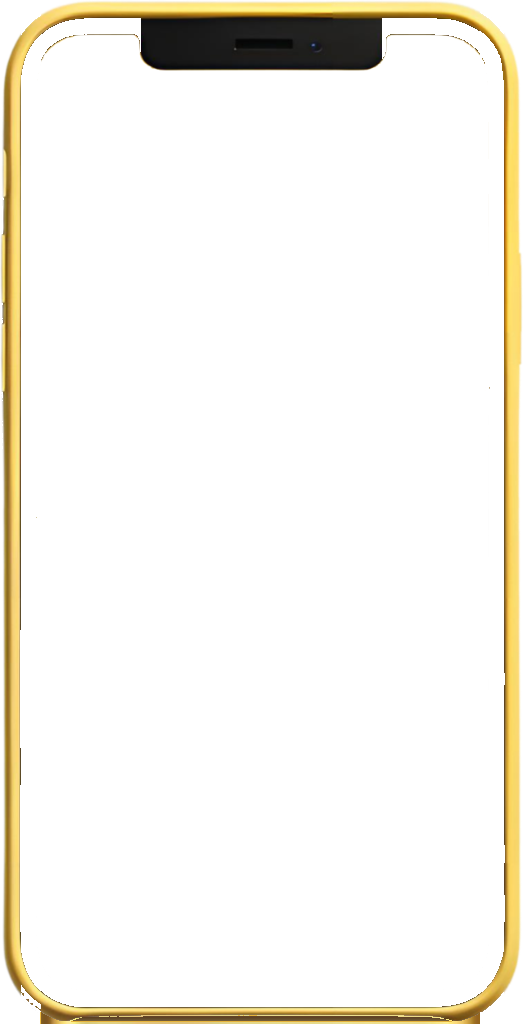
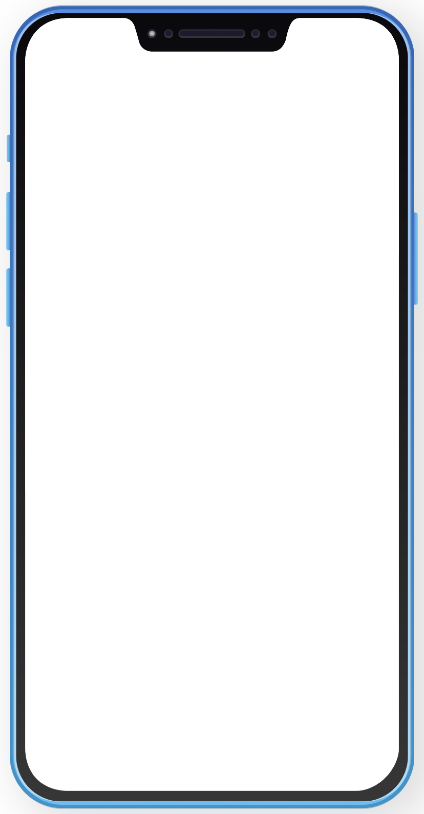
Swap the About phone frame for the cyan mockup.
Replace the gold overlay with the provided transparent mockup and retune the screen hole so videos sit cleanly inside the bezel.

Changed region(s): [[0.0, 0.0, 1.0, 1.0]]

diff --git a/src/components/site/AboutPhone.tsx b/src/components/site/AboutPhone.tsx
@@ -20,8 +20,8 @@ function filmsFor(videos: typeof galleryVideos, ids: readonly string[]) {
 
 const defaultSlides = filmsFor(galleryVideos, phoneVideoIds);
 
-/** Screen hole of phone-frame.png (523×1024), tucked under the gold bezel. */
-const screenInset = "inset-[1.56%_2.68%_1.76%_2.68%]";
+/** Screen hole of phone-frame.png (424×814), tucked under the cyan bezel. */
+const screenInset = "inset-[1.86%_5.55%_2.60%_5.55%]";
 
 export function AboutPhone({ videos }: { videos?: { id: string; src: string; poster: string; title: string; category: string }[] } = {}) {
   const slides = videos?.length ? videos : defaultSlides;
@@ -75,7 +75,7 @@ export function AboutPhone({ videos }: { videos?: { id: string; src: string; pos
 
   return (
     <div
-      className="relative aspect-[523/1024] w-[min(100%,260px)] min-[901px]:h-0 min-[901px]:min-h-full min-[901px]:w-auto min-[901px]:max-h-full min-[901px]:justify-self-end"
+      className="relative aspect-[424/814] w-[min(100%,260px)] min-[901px]:h-0 min-[901px]:min-h-full min-[901px]:w-auto min-[901px]:max-h-full min-[901px]:justify-self-end"
       onMouseEnter={() => setPaused(true)}
       onMouseLeave={() => setPaused(false)}
       onFocusCapture={() => setPaused(true)}
@@ -89,7 +89,7 @@ export function AboutPhone({ videos }: { videos?: { id: string; src: string; pos
       <div className="absolute inset-0 overflow-hidden">
         <div
           className={`absolute ${screenInset} z-0 overflow-hidden bg-transparent`}
-          style={{ borderRadius: "10% / 4%" }}
+          style={{ borderRadius: "11% / 5.5%" }}
           aria-live="polite"
           aria-atomic="true"
         >
@@ -139,7 +139,7 @@ export function AboutPhone({ videos }: { videos?: { id: string; src: string; pos
 
         {/* eslint-disable-next-line @next/next/no-img-element -- decorative frame overlay */}
         <img
-          src="/images/phone-frame.png?v=2"
+          src="/images/phone-frame.png?v=3"
           alt=""
           aria-hidden
           draggable={false}
